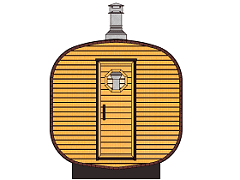
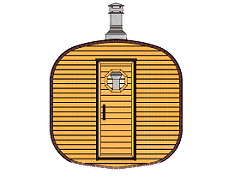
Complete 1st ver. of styles.css, remove background from img

Changed region(s): [[0.2917, 0.8889, 0.7, 1.0], [0.7, 0.8611, 0.7292, 0.8889], [0.4667, 0.0, 0.4958, 0.0278]]

diff --git a/index.html b/index.html
@@ -10,9 +10,9 @@
     <script crossorigin="anonymous" src="https://kit.fontawesome.com/f0cd168798.js"></script>
 </head>
 <body>
-    <div class="header-contianer">
+    <div class="header-container">
         <nav class="nav-bar">
-            <img src="img/bochky.avif" alt="Логотип Bochky">
+            <img class="logo" src="img/bochky.avif" alt="Логотип Bochky">
             <a class="nav-phone" href="tel:+7-985-549-73-03"><i class="fas fa-phone"></i> +7 (985) 549-73-03</a>
         </nav>
         <div class="header-hero-container">
@@ -21,27 +21,27 @@
                 <li class="list-items">Bochky® — это наименование международного товарного знака и группы компаний</li>
                 <li class="list-items">Доставка или сборка на участке любой бани за 1 день</li>
             </ul>
-            <a class="btn" href="tel:+7-985-549-73-03">
-                <button class="header-btn">
-                    <p class="btn-text">УЗНАТЬ СТОИМОСТЬ БАНИ</p>
-                    <p class="phone-link"><i class="fas fa-phone"></i> +7 (985) 549-73-03</p>
-                </button>
-            </a>
         </div>
+        <a class="btn" href="tel:+7-985-549-73-03">
+            <button class="header-btn">
+                <p class="btn-text">УЗНАТЬ СТОИМОСТЬ БАНИ</p>
+                <p class="phone-link"><i class="fas fa-phone"></i> +7 (985) 549-73-03</p>
+            </button>
+        </a>
     </div>
     <div class="benefits-container">
         <div class="benefits-content">
             <div class="benefits-item">
-                <i class="fas fa-phone"></i>
-                <p class="item-text">Lorem ipsum</p>
+                <i class="fas fa-stopwatch"></i>
+                <p class="item-text">Соберем баню за день</p>
             </div>
             <div class="benefits-item">
-                <i class="fas fa-phone"></i>
-                <p class="item-text">Lorem ipsum</p>
+                <i class="fas fa-thumbs-up"></i>
+                <p class="item-text">Европейское Качество</p>
             </div>
             <div class="benefits-item">
-                <i class="fas fa-phone"></i>
-                <p class="item-text">Lorem ipsum</p>
+                <i class="fas fa-shield-alt"></i>
+                <p class="item-text">Гарантия 1 год</p>
             </div>
         </div>
     </div>
@@ -65,7 +65,7 @@
                 <p class="banya-text">Окта Бани</p>
             </div>
             <div class="banya-type">
-                <img src="img/hill-house.jpg" alt="">
+                <img src="img/hill-house.png" alt="">
                 <p class="banya-text">Хилл-хаус Бани</p>
             </div>
             <div class="banya-type">
@@ -80,10 +80,6 @@
                 <img src="img/kvadro-house.png" alt="">
                 <p class="banya-text">Квадро-хаус Бани</p>
             </div>
-            <div class="banya-type">
-                <img src="img/europe.jpg" alt="">
-                <p class="banya-text">Бани Европа</p>
-            </div>
         </div>
     </div>
     <div class="cta-container">
@@ -91,10 +87,10 @@
             <img src="https://bochky.ru/adb/themes/BBStrong/images/intro/bbmain1_result.jpeg" alt="Фото шикарной бани">
             <div class="cta-message">
                 <p class="cta-text">Позвоните нам и узнайте стоимость вашей бани-бочки</p>
-                <a class="cta-btn" href="tel:+7-985-549-73-03">
+                <a class="btn" href="tel:+7-985-549-73-03">
                     <button class="header-btn">
                         <p class="btn-text">УЗНАТЬ СТОИМОСТЬ БАНИ</p>
-                        <p class="phone-link"><i class="fas fa-phone"></i> 8 (985) 549-73-03</p>
+                        <p class="phone-link"><i class="fas fa-phone"></i> +7 (985) 549-73-03</p>
                     </button>
                 </a>
             </div>

diff --git a/styles.css b/styles.css
@@ -1,0 +1,172 @@
+* {
+    margin: 0;
+    padding: 0;
+}
+
+p, 
+a,
+li {
+    font-family: sans-serif;
+}
+
+.header-container {
+    min-height: 100vh;
+    display: flex;
+    flex-direction: column;
+    justify-content: space-between;
+    background-color: #FFEBDB;
+}
+
+.nav-bar {
+    display: flex;
+    justify-content: space-between;
+    align-items: stretch;
+    background-color: #25424C;
+    padding: 0 8px;
+}
+
+.logo {
+    height: 75px;
+}
+
+.nav-phone {
+    align-self: center;
+    text-decoration: none;
+    color: #FFEBDB;
+    font-weight: 700;
+}
+
+.header-hero-container {
+    padding: 0 8px;
+}
+
+.header-hero {
+    font-size: 24px;
+    font-weight: 700;
+}
+
+.header-hero-list {
+    margin-top: 40px;
+    margin-left: 20px;
+}
+
+.list-items {
+    margin-bottom: 8px;
+}
+
+.btn {
+    align-self: stretch;
+    margin: 0 12px 24px;
+}
+
+.header-btn {
+    width: 100%;
+    padding: 16px;
+    background-color: #FB770D;
+    border: 1px solid transparent;
+    border-radius: 12px;
+}
+
+.header-btn:hover {
+    background-color: #fb8332;
+    box-shadow: rgba(0, 0, 0, 0.1) 0 4px 12px;
+    transform: translateY(-1px);
+}
+
+.btn-text,
+.phone-link {
+    font-size: 18px;
+    color: white;
+    font-weight: 700;
+}
+
+.btn-text{
+    margin-bottom: 8px;
+}
+
+.benefits-content {
+    display: flex;
+    flex-wrap: wrap;
+    justify-content: space-around;
+    padding: 30px 12px;
+    gap: 15px;
+}
+
+.benefits-item {
+    text-align: center;
+    font-size: 60px;
+    color: #FFA45B;
+    width: 100px;
+}
+
+.benefits-item:hover {
+    color: #FB770D;
+}
+
+.benefits-item .item-text {
+    font-size: 14px;
+    font-weight: 700;
+}
+
+.content-container {
+    background-color: #FFEBDB;
+    padding: 20px 12px;
+}
+
+.content-header-text {
+    text-align: center;
+    margin-bottom: 28px;
+    font-weight: 700;
+}
+
+.banya-section {
+    display: flex;
+    flex-wrap: wrap;
+    justify-content: space-around;
+    gap: 12px;
+    align-items: stretch;
+}
+
+.banya-type {
+    display: flex;
+    flex-direction: column;
+    align-items: center;
+}
+
+.banya-type img {
+    margin-bottom: 18px;
+}
+
+.banya-text {
+    margin-top: auto;
+    font-size: 18px;
+    font-weight: 700;
+}
+
+.cta-container {
+    padding: 0 0 20px;
+}
+
+.cta-content {
+    display: flex;
+    flex-wrap: wrap;
+    align-items: stretch;
+}
+
+.cta-content img {
+    max-width: 100%;
+}
+
+.cta-message {
+    display: flex;
+    flex-direction: column;
+    justify-content: space-between;
+}
+
+.cta-text {
+    color: #25424C;
+    font-size: 24px;
+    font-weight: 700;
+    text-align: center;
+    padding: 20px 12px;
+}
